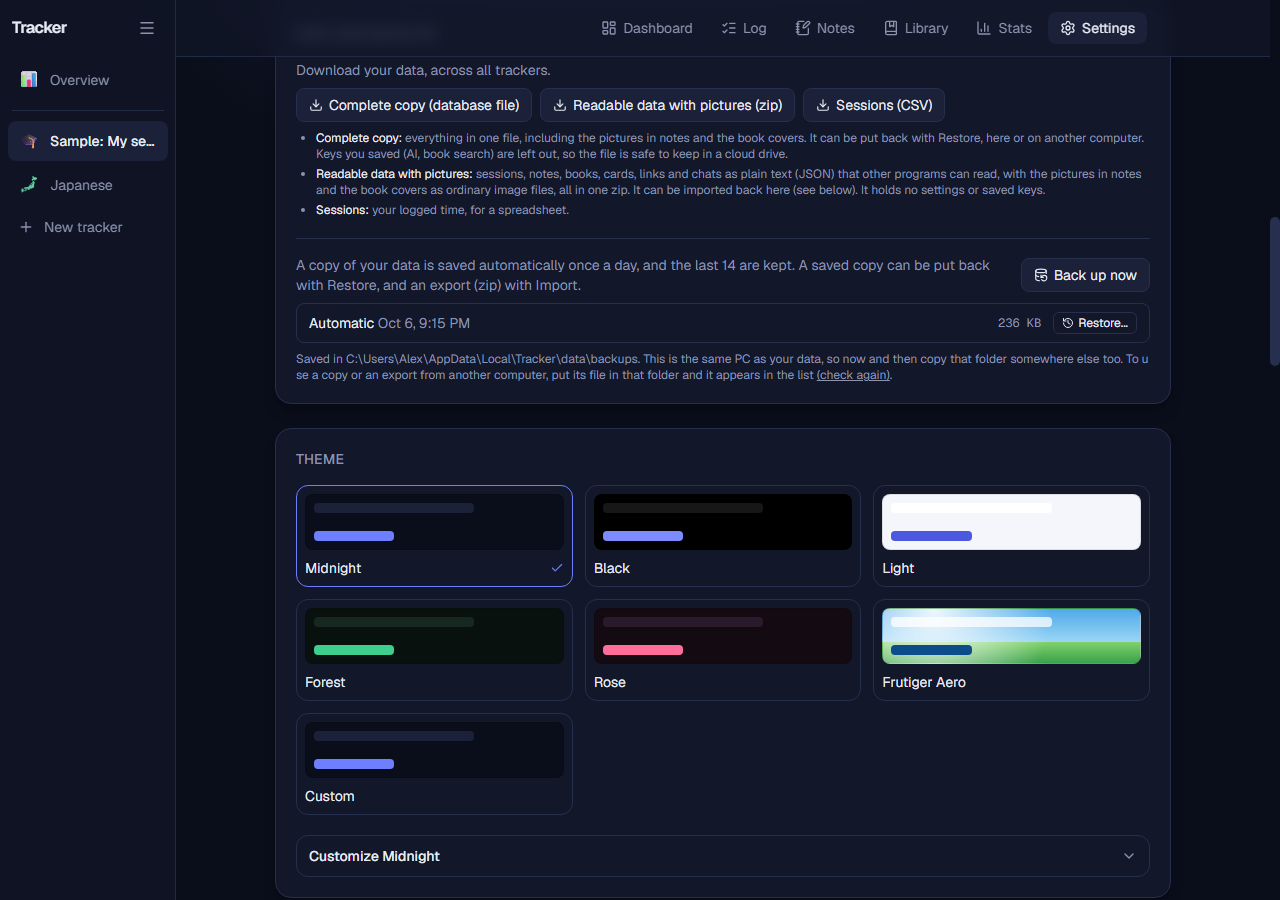
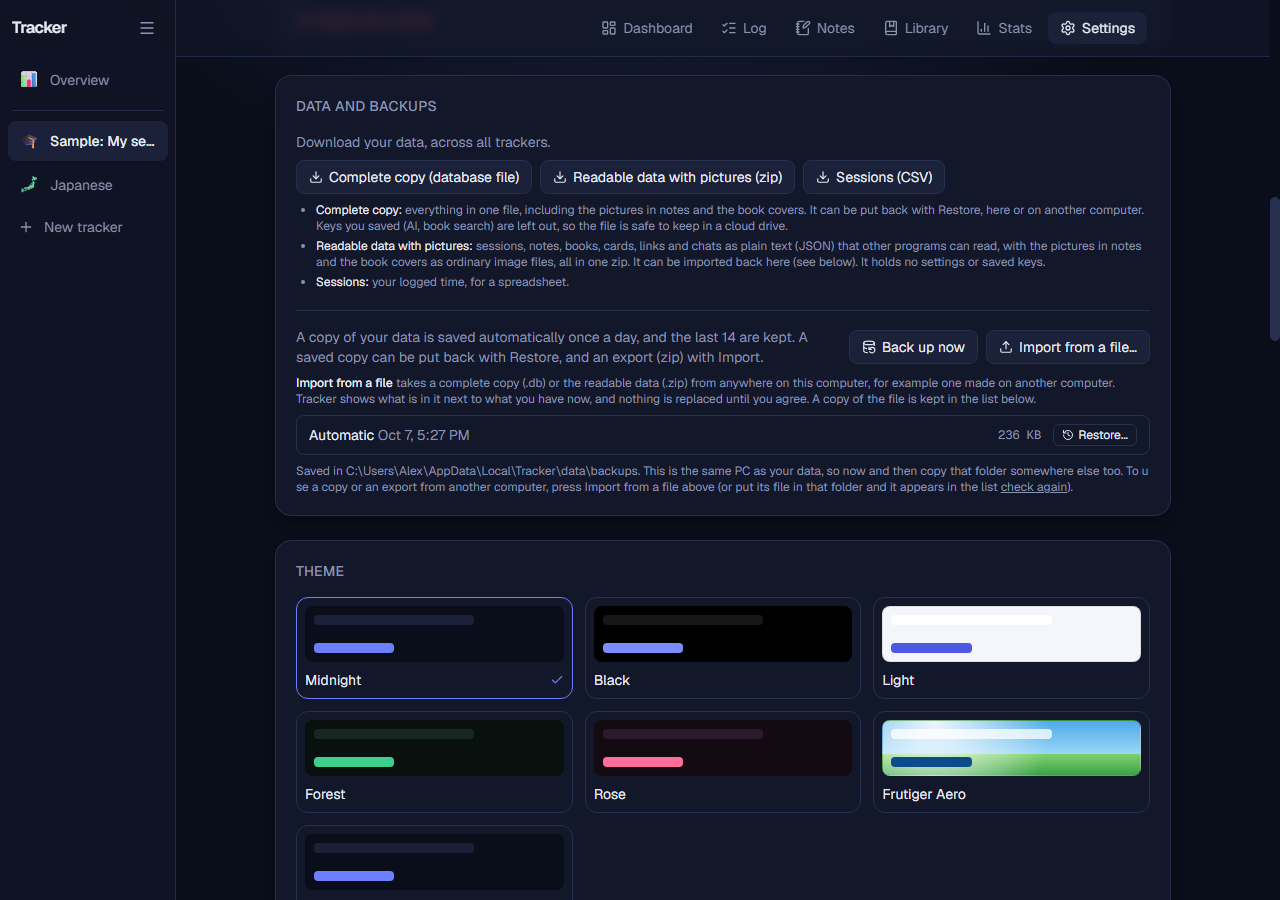
Update the site

diff --git a/docs/manual.html b/docs/manual.html
@@ -23,7 +23,7 @@
   </header>
 
   <h1>The full user manual</h1>
-  <p class="lead">Everything Tracker does, part by part. New here? Start with <a href="guide.html">Getting started in ten minutes</a>. This manual describes version 0.3.2; later versions may add things, and Settings, About lists what changed.</p>
+  <p class="lead">Everything Tracker does, part by part. New here? Start with <a href="guide.html">Getting started in ten minutes</a>. This manual describes version 0.4.0; later versions may add things, and Settings, About lists what changed.</p>
 
   <div class="layout">
     <nav class="toc" aria-label="Contents">
@@ -184,8 +184,10 @@
         <figure class="shot"><a class="zoom" href="img/graph.png"><img src="img/graph.png" width="1280" height="900" alt="The notes graph with labelled dots for notes, courses and books and lines for links." loading="lazy"></a><figcaption>The graph. Drag a dot to move it; click one to open the note.</figcaption></figure>
         <ul>
           <li>The tick boxes <strong>Courses</strong>, <strong>Unwritten links</strong> and <strong>Books</strong> show or hide those kinds of dots; <strong>Fit</strong> fits everything in view. Your choices are remembered.</li>
-          <li><strong>Fullscreen</strong> (next to Fit, when your browser allows it) gives the graph the whole screen, with the same tick boxes and Fit. There, clicking a dot or a line opens its details in a <strong>bubble</strong> beside it instead of under the picture. The bubble follows the dot when you move or zoom the picture, opens on its other side near the edge of the screen, and has the same buttons as the panel in the normal view (<em>Open note</em>, <em>Connect to...</em>, <em>Clear</em>). <em>Open note</em> leaves fullscreen and shows the note; clicking empty space closes the bubble, and <kbd>Esc</kbd> leaves fullscreen.</li>
-          <li>A connection can carry a short <strong>comment</strong> that keeps its history, so you can write why two notes belong together.</li>
+          <li><strong>Click a dot or a line</strong> and its details open in a <strong>bubble</strong> beside it. The bubble follows the dot when you move or zoom the picture, opens on the dot&rsquo;s other side near the edge of the picture, and has the buttons <em>Open note</em> (or <em>Open in Library</em> for a book), <em>Connect to...</em> and <em>Clear</em>. Clicking empty space closes it.</li>
+          <li><strong>Full window</strong> (next to Fullscreen) makes the graph fill this browser window, without taking over the screen. It is for people who keep Tracker in a smaller window beside other things. The tick boxes and Fit come along, <kbd>Esc</kbd> leaves it, and <em>Open note</em> leaves it before showing the note. It works together with Fullscreen.</li>
+          <li><strong>Fullscreen</strong> (when your browser allows it) gives the graph the whole screen. <kbd>Esc</kbd> leaves it.</li>
+          <li>A connection can carry a short <strong>comment</strong> that keeps its history, so you can write why two notes belong together. The comment is written along the line, tilted with it and cut with &ldquo;...&rdquo; to fit between the two dots; select the line to read it in full.</li>
           <li>In Settings, <em>Notes graph</em> lets you choose the shape of each kind of dot and how the graph moves (it follows your computer&rsquo;s &ldquo;reduce motion&rdquo; setting by default).</li>
         </ul>
         <figure class="shot"><a class="zoom" href="img/graph-fullscreen.png"><img src="img/graph-fullscreen.png" width="1280" height="800" alt="The notes graph shown fullscreen, with a bubble beside the clicked note Research questions showing its course, its text, the notes it connects to and the buttons Open note, Connect to and Clear." loading="lazy"></a><figcaption>Fullscreen: the details of a clicked note open in a bubble beside its dot.</figcaption></figure>
@@ -204,7 +206,7 @@
         <h3>Reading a text</h3>
         <ul>
           <li><strong>Status</strong>: To read, Reading, Paused, Read. Starting to read and finishing are dated for you.</li>
-          <li><strong>Now on page</strong>: type the page you are on. Tracker shows the percent done, <em>pages per hour</em> from your timed sessions, the time left and, at your recent pace, roughly how many weeks that is.</li>
+          <li><strong>Now on page</strong>: type the page you are on. Tracker shows the percent done, <em>pages per hour</em> from your timed sessions, and the time left (&ldquo;about 4 h left&rdquo;). Settings, Library can also add a guess of how many weeks that is at your recent pace; it is <strong>off by default</strong> because it is only a rough guess, and the hours are useful on their own.</li>
           <li>Pick the text in the timer and the session counts towards it (&ldquo;4h in 3 sessions, last today&rdquo;).</li>
           <li>Notes about a text show how many there are, and can name the page they are about.</li>
           <li>Filter by course, search with <strong>Search the library</strong>, and use <strong>Covers</strong> to show or hide the pictures.</li>
@@ -243,7 +245,7 @@
         <figure class="shot" style="max-width:300px"><a class="zoom" href="img/phone.png"><img src="img/phone.png" width="390" height="844" alt="The dashboard in a narrow window, with the timer filling the width." loading="lazy"></a><figcaption>A narrow window. (Tracker still runs only on your computer.)</figcaption></figure>
 
         <h2 id="data">14. Backups, exports, moving</h2>
-        <figure class="shot"><a class="zoom" href="img/settings-data.png"><img src="img/settings-data.png" width="1280" height="900" alt="Data and backups in settings: three download buttons, Back up now, and saved copies with Restore." loading="lazy"></a><figcaption>Settings, Data and backups.</figcaption></figure>
+        <figure class="shot"><a class="zoom" href="img/settings-data.png"><img src="img/settings-data.png" width="1280" height="900" alt="Data and backups in settings: three download buttons, Back up now, Import from a file, and saved copies with Restore." loading="lazy"></a><figcaption>Settings, Data and backups.</figcaption></figure>
         <h3>Where your data is</h3>
         <p>Everything (sessions, notes, books, pictures and covers) is in one file, <code>tracker.db</code>, in <code>%LOCALAPPDATA%\Tracker\data</code> (paste that into the File Explorer address bar). Saved copies are in its <code>backups</code> folder. Settings, Privacy lists all the places for your computer.</p>
         <h3>Saved copies</h3>
@@ -253,6 +255,9 @@
           <li><strong>Restore...</strong> on a saved copy shows what is in it (trackers, sessions, hours, notes, books) next to what you have now, and asks you to confirm. Everything you have now is replaced by the copy, including its settings; keys you saved on this computer are kept unless the copy has its own. Your current data is saved first as <em>Before a restore</em>, so a restore can be undone. A copy from an older version is brought up to date; one from a newer version is refused (update Tracker first).</li>
           <li>Those copies live on the same computer as your data. Now and then copy the folder to a USB stick or cloud drive.</li>
         </ul>
+        <h3>Importing a file</h3>
+        <p><strong>Import from a file...</strong>, next to <em>Back up now</em>, lets you pick a complete copy (.db) or a readable-data zip from anywhere on your computer, for example one made on another computer or kept on a USB stick. Tracker keeps a copy of it in the list of saved copies, shows what is in it next to what you have now, and replaces nothing until you confirm. A file that does not start like one of Tracker&rsquo;s own files is refused, and a file that is a database but not Tracker&rsquo;s is explained in the preview.</p>
+
         <h3>Taking your data with you</h3>
         <table>
           <tr><th>Download</th><th>What it is for</th></tr>
@@ -262,7 +267,7 @@
         </table>
         <p>All three downloads cover all your trackers. Your saved keys (AI, book search) are <em>left out</em> of the complete copy and the zip on purpose, so the files are safe in a cloud drive.</p>
         <h3>Moving to another computer</h3>
-        <p>Install Tracker there, make a complete copy or a zip here, and put the file in the <code>backups</code> folder of the new computer (Settings shows where, and <em>check again</em> refreshes the list); it then shows up with a Restore or Import button. Or, with Tracker closed on both, copy the whole <code>%LOCALAPPDATA%\Tracker</code> folder.</p>
+        <p>Install Tracker there, make a complete copy or a zip here, and on the new computer press <strong>Import from a file...</strong> and pick it (see below). Or, with Tracker closed on both, copy the whole <code>%LOCALAPPDATA%\Tracker</code> folder.</p>
         <h3>If the data file is damaged</h3>
         <p>After a crash, a power cut or a disk problem the file can become unreadable. Tracker then still starts, says so in plain words, and lists the healthy saved copies it found with what each holds. <strong>Use this copy</strong> puts one in place; the damaged file is not deleted but moved to a <code>damaged</code> folder next to your data. Anything you added after that copy was made is not in it.</p>
         <figure class="shot"><a class="zoom" href="img/damaged.png"><img src="img/damaged.png" width="1280" height="900" alt="The page Tracker shows when its data file is damaged: what to do, and a list of saved copies with a Use this copy button." loading="lazy"></a><figcaption>The recovery page.</figcaption></figure>
@@ -270,6 +275,7 @@
         <h2 id="updates">15. Updates</h2>
         <figure class="shot"><a class="zoom" href="img/about.png"><img src="img/about.png" width="1280" height="960" alt="The About part of settings: the version, what changed, and the update options." loading="lazy"></a><figcaption>Settings, About.</figcaption></figure>
         <ul>
+          <li>Settings, About also has a link to the <a href="terms.html">terms of use</a>, the contact address and the GitHub issues page. They are links you click; Tracker sends nothing by itself.</li>
           <li><strong>Check now</strong> asks whether a newer version exists. It is the only thing that contacts anyone unless you turn the next option on.</li>
           <li><strong>Check for updates once a day</strong> (off by default) does the same by itself, once a day.</li>
           <li>When a newer version exists, <strong>Update now</strong> downloads it from GitHub (about 45 MB), checks that it is the file signed for Tracker, saves a copy of your data, closes Tracker, installs it and opens Tracker again; the page reloads by itself. Your data stays as it is.</li>

diff --git a/docs/index.html b/docs/index.html
@@ -150,7 +150,7 @@ footer p { margin: 0 0 8px; }
         <figure class="shot"><a class="zoom" href="img/library.png"><img loading="lazy" src="img/library.png" width="1280" height="900" alt="The library: two books with reading progress, pages per hour, an estimate of the time left and a field for the page you are on."></a><figcaption>The library tracks what you read, how fast, and how long it will take.</figcaption></figure>
         <figure class="shot"><a class="zoom" href="img/stats.png"><img loading="lazy" src="img/stats.png" width="1280" height="900" alt="The stats page: a bar chart of daily study time over 30 days split by course and coloured by activity, above a comparison of this week with last week."></a><figcaption>Stats: where the time went, and how this week compares.</figcaption></figure>
         <figure class="shot"><a class="zoom" href="img/overview.png"><img loading="lazy" src="img/overview.png" width="1280" height="900" alt="The overview page that adds up two trackers: totals for today, this week and all time, a day streak, a daily chart and a split of time by tracker."></a><figcaption>The overview adds up all your trackers, for example a language and a degree.</figcaption></figure>
-        <figure class="shot"><a class="zoom" href="img/settings-data.png"><img loading="lazy" src="img/settings-data.png" width="1280" height="900" alt="The Data and backups part of settings: three download buttons, a Back up now button and the list of saved copies, each with a Restore button."></a><figcaption>A copy is saved every day. Put any of them back, or take everything with you.</figcaption></figure>
+        <figure class="shot"><a class="zoom" href="img/settings-data.png"><img loading="lazy" src="img/settings-data.png" width="1280" height="900" alt="The Data and backups part of settings: three download buttons, Back up now and Import from a file buttons and the list of saved copies, each with a Restore button."></a><figcaption>A copy is saved every day. Put any of them back, or take everything with you.</figcaption></figure>
         <figure class="shot"><a class="zoom" href="img/damaged.png"><img loading="lazy" src="img/damaged.png" width="1280" height="900" alt="The page Tracker shows when its data file is damaged: what to do, and a list of saved copies with a Use this copy button."></a><figcaption>If the data file is ever damaged, Tracker says so plainly and offers saved copies to go back to.</figcaption></figure>
       </div>
     </section>

diff --git a/docs/guide.html b/docs/guide.html
@@ -73,8 +73,8 @@
 
       <li class="step" id="safe">
         <h2 style="margin-top:0;border-top:0;padding-top:0">Keep your data safe</h2>
-        <p>Tracker saves a copy of your data automatically once a day and keeps the last 14. In <strong>Settings, Data and backups</strong> you can press <strong>Back up now</strong>, put any saved copy back with <strong>Restore</strong> (it shows what is in the copy first, and keeps what you have now so the restore can be undone), and download everything as one file, as a zip of readable data, or your sessions as a spreadsheet. The saved copies are on the same computer as your data, so now and then copy that folder somewhere else.</p>
-        <figure class="shot"><a class="zoom" href="img/settings-data.png"><img src="img/settings-data.png" width="1280" height="900" alt="The Data and backups part of settings: three download buttons, a Back up now button and the list of saved copies, each with a Restore button." loading="lazy"></a><figcaption>Data and backups.</figcaption></figure>
+        <p>Tracker saves a copy of your data automatically once a day and keeps the last 14. In <strong>Settings, Data and backups</strong> you can press <strong>Back up now</strong>, put any saved copy back with <strong>Restore</strong>, bring in a file from anywhere on your computer with <strong>Import from a file</strong> (it shows what is in the copy first, and keeps what you have now so the restore can be undone), and download everything as one file, as a zip of readable data, or your sessions as a spreadsheet. The saved copies are on the same computer as your data, so now and then copy that folder somewhere else.</p>
+        <figure class="shot"><a class="zoom" href="img/settings-data.png"><img src="img/settings-data.png" width="1280" height="900" alt="The Data and backups part of settings: three download buttons, Back up now and Import from a file buttons and the list of saved copies, each with a Restore button." loading="lazy"></a><figcaption>Data and backups.</figcaption></figure>
       </li>
     </ol>
 
